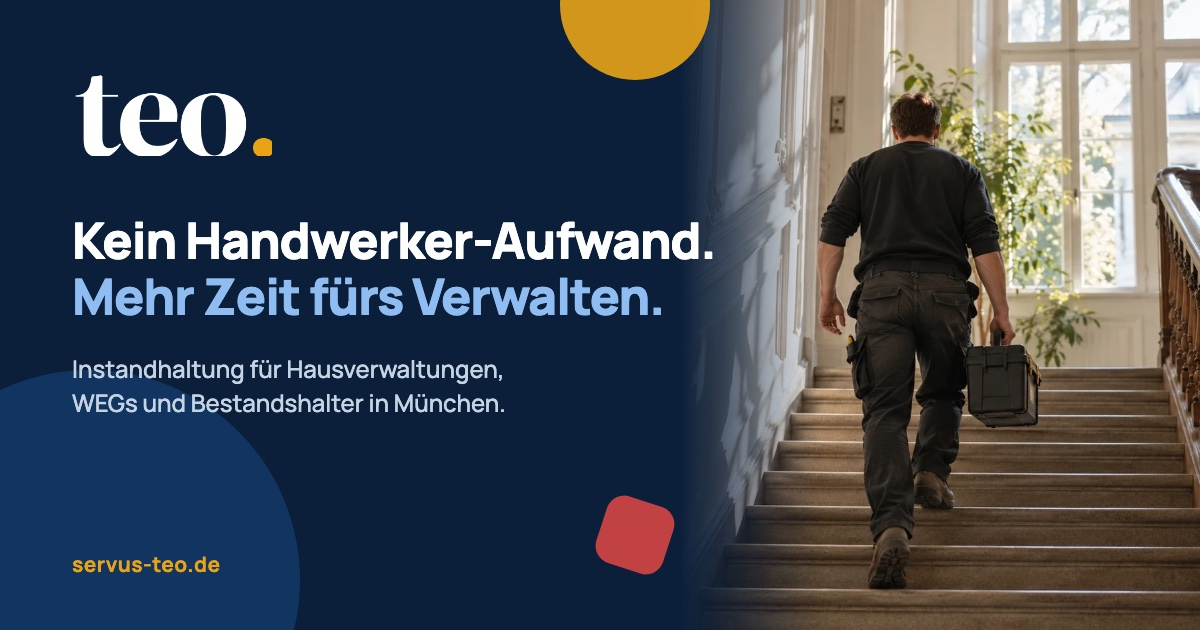
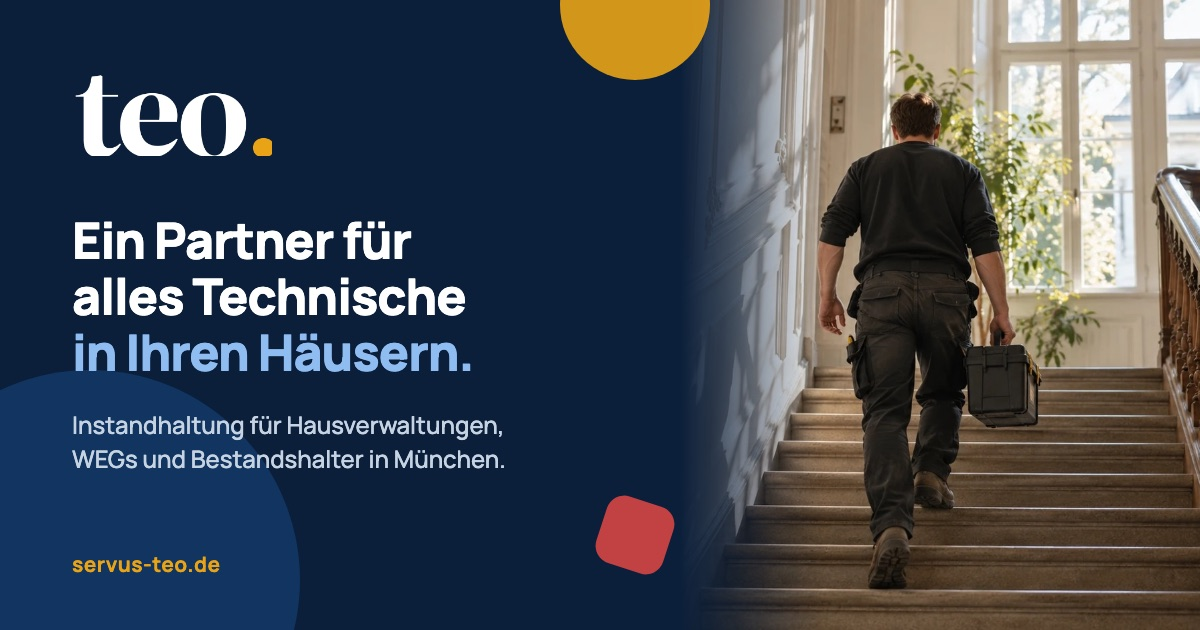
TEO-Startseite: klarere Texte im bestehenden Aufbau — Überschrift „Ein Partner für alles Technische in Ihren Häusern.“, Satz sagt was teo macht; Portal statt App, Wertgrenze legt die Verwaltung fest, Hausmeister/Putzdienst im Portal, FAQ „Was macht teo genau?“; Vorschaubild mit neuer Überschrift

Changed region(s): [[0.0617, 0.3317, 0.6167, 0.754]]

diff --git a/src/components/teo/TeoStartseite.tsx b/src/components/teo/TeoStartseite.tsx
@@ -51,21 +51,21 @@ const HEUTE = [
 const MIT_TEO = [
   "Eine Meldung genügt, wir übernehmen",
   "Handwerker und Termin organisieren wir",
-  "Den Stand sehen Sie jederzeit in der App",
+  "Den Stand sehen Sie jederzeit im Portal",
   "Abnahme mit Fotos, eine Rechnung von uns",
-  "Prüffristen laufen von selbst",
+  "Wartungen planen wir für Sie",
 ] as const;
 
 /** Kern-USPs: kurz unter dem Hero, ausführlich in „Was Sie bei teo bekommen“. */
 
 const VORTEILE = [
-  { icon: Handshake, titel: "Wir übernehmen alles", text: "Von der Meldung bis zur bezahlten Rechnung." },
+  { icon: Handshake, titel: "Von der Meldung bis zur Rechnung", text: "Sie melden, wir erledigen den Rest." },
   { icon: Headset, titel: "Ein Ansprechpartner", text: "Für jedes Haus und jedes Gewerk derselbe." },
   { icon: ReceiptText, titel: "Eine Rechnung", text: "Wir sind Ihr Vertragspartner, nicht zehn Betriebe." },
   { icon: ShieldCheck, titel: "Haftung und Gewährleistung", text: "Wir haften und kümmern uns auch um spätere Mängel." },
   { icon: ClipboardCheck, titel: "Geprüft und abgenommen", text: "Jede Arbeit abgenommen und mit Fotos belegt." },
   { icon: Network, titel: "Partnernetz in München", text: "Geprüfte Betriebe für alle Gewerke in Ihrer Nähe." },
-  { icon: SlidersHorizontal, titel: "Sie behalten die Kontrolle", text: "Unter Ihrer Wertgrenze direkt, darüber entscheiden Sie." },
+  { icon: SlidersHorizontal, titel: "Sie behalten die Kontrolle", text: "Sie legen fest, bis zu welchem Betrag wir direkt beauftragen." },
   { icon: CalendarClock, titel: "Prüffristen im Blick", text: "Wartungen beauftragen wir, bevor die Frist abläuft." },
 ] as const;
 
@@ -73,13 +73,13 @@ const VORTEILE = [
 const UEBERNEHMEN = [
   { icon: Wrench, text: "Schäden und Reparaturen" },
   { icon: CalendarClock, text: "Wartung und Prüffristen" },
-  { icon: Sparkles, text: "Laufender Betrieb" },
+  { icon: Sparkles, text: "Hausmeister und Reinigung" },
   { icon: Hammer, text: "Sanierungen und Maßnahmen" },
 ] as const;
 
 const SO_MACHEN_WIR_ES = [
-  { icon: Network, titel: "Partnerbetriebe in München", text: "Geprüft, für alle Gewerke." },
-  { icon: Smartphone, titel: "Die App", text: "Meldung, Stand, Fotos und Rechnung an einem Ort." },
+  { icon: Network, titel: "Meisterbetriebe aus München", text: "Geprüft, für alle Gewerke." },
+  { icon: Smartphone, titel: "Das Portal", text: "Meldung, Stand, Fotos und Rechnung an einem Ort." },
   { icon: Headset, titel: "Ihr teo-Team", text: "Koordiniert, prüft und haftet." },
 ] as const;
 
@@ -87,7 +87,7 @@ const DAVON_HABEN = [
   "Ein Ansprechpartner für alles",
   "Jeder Stand sichtbar",
   "Eine Rechnung von uns",
-  "Kosten im Budget",
+  "Kosten je Haus im Blick",
 ] as const;
 
 /** Kosten-Beispiel (Vorbild Lessen „Total cost to maintain“): gleiche Rechnung, anderer Aufwand. */
@@ -103,22 +103,22 @@ const MIT_TEO_KOSTEN = [
   "Kein Aufschlag auf die Rechnung",
   "Eine Rechnung, wir sind Vertragspartner",
   "Unterlagen für die Versicherung fertig",
-  "Software inklusive",
+  "Portal inklusive",
 ] as const;
 
 /** Alle Beteiligten (Vorbild Lessen „Every party connected“): Foto je Rolle, darunter teo als Klammer. */
 const BETEILIGTE = [
-  { foto: "rolle-verwaltung", quelle: "verwaltung", icon: Briefcase, titel: "Verwaltung", text: "Alle Häuser auf einer Seite. Freigeben mit einem Klick.", alt: "Verwalterin am Laptop" },
-  { foto: "rolle-mieter", quelle: null, icon: KeyRound, titel: "Mieter & Hausmeister", text: "Melden per QR-Code oder App, ganz ohne Anruf.", alt: "Mieterin meldet einen Schaden mit dem Handy" },
+  { foto: "rolle-verwaltung", quelle: "verwaltung", icon: Briefcase, titel: "Verwaltung", text: "Alle Häuser auf einer Seite. Freigeben nur, wenn es über Ihre Grenze geht.", alt: "Verwalterin am Laptop" },
+  { foto: "rolle-mieter", quelle: null, icon: KeyRound, titel: "Mieter & Hausmeister", text: "Mieter melden per QR-Code. Hausmeister und Putzdienst haken ihre Aufgaben im Portal ab.", alt: "Mieterin meldet einen Schaden mit dem Handy" },
   { foto: "rolle-handwerker", quelle: "handwerker", icon: Wrench, titel: "Handwerker", text: "Auftrag, Termin und Fotos direkt auf dem Handy.", alt: "Handwerker an der Heizung" },
   { foto: "rolle-eigentuemer", quelle: null, icon: Building, titel: "Eigentümer", text: "Sehen, was im Haus passiert, mit den Kosten je Haus.", alt: "Eigentümer vor seinem Haus" },
 ] as const;
 
 export const TEO_FAQ = [
   {
-    frage: "Für wen ist teo?",
+    frage: "Was macht teo genau?",
     antwort:
-      "Für alle, die Mehrparteienhäuser verwalten: Hausverwaltungen, Eigentümergemeinschaften und Bestandshalter wie Wohnungsunternehmen, Genossenschaften oder Eigentümer mehrerer Häuser.",
+      "Wir organisieren alles Technische an Ihren Häusern: Schäden, Wartungen, Hausmeister, Reinigung und Sanierungen. Mit geprüften Meisterbetrieben, einer Rechnung und einem Portal für alle.",
   },
   {
     frage: "Was kostet teo?",
@@ -127,11 +127,11 @@ export const TEO_FAQ = [
   {
     frage: "Ist teo eine Software?",
     antwort:
-      "Wir sind Ihr Dienstleister für alles Technische. Wir organisieren, beauftragen und prüfen. Die App ist dabei, damit Sie jederzeit den Stand sehen.",
+      "Wir sind Ihr Dienstleister für alles Technische. Wir organisieren, beauftragen und prüfen. Das Portal ist dabei, damit Sie jederzeit den Stand sehen.",
   },
   {
     frage: "Was wird aus unserem Hausmeister?",
-    antwort: "Er bleibt. Mit der App hakt er Rundgänge ab und meldet, was ihm auffällt. Den Rest organisieren wir.",
+    antwort: "Er bleibt. Im Portal sieht er seine Aufgaben, hakt Rundgänge ab und schaut sich Meldungen auf Wunsch zuerst selbst an. Was er nicht lösen kann, übernimmt ein Fachbetrieb.",
   },
   {
     frage: "Wer haftet, wenn etwas schiefgeht?",
@@ -147,7 +147,7 @@ export const TEO_FAQ = [
   },
   {
     frage: "Behalten wir die Kontrolle?",
-    antwort: "Ja. Sie legen pro Haus fest, bis zu welchem Betrag wir direkt beauftragen. Alles darüber geben Sie frei.",
+    antwort: "Ja. Sie legen pro Haus fest, bis zu welchem Betrag wir direkt beauftragen. Alles darüber geben Sie frei. Bei akuten Schäden, etwa einem Rohrbruch, legen wir sofort los.",
   },
   {
     frage: "Wo ist teo tätig?",
@@ -188,10 +188,10 @@ export function TeoStartseite() {
         <div className="teo-innen ts-hero__kopf">
           <h1>
             <span className="ts-hero__zeile">
-              Kein <span className="ts-hero__ganz">Handwerker-Aufwand.</span>
-            </span> <span className="ts-hero__zeile">Mehr Zeit fürs Verwalten.</span>
+              Ein Partner für <span className="ts-hero__ganz">alles Technische</span>
+            </span> <span className="ts-hero__zeile">in Ihren Häusern.</span>
           </h1>
-          <p className="ts-hero__satz">teo übernimmt alles, von der Meldung bis zur Ausführung durch den Handwerker.</p>
+          <p className="ts-hero__satz">teo organisiert Reparaturen, Wartungen und Hausmeisterdienste für Wohnhäuser in München. Mit geprüften Meisterbetrieben und einer Rechnung.</p>
           <div className="teo-aktionen ts-zentriert">
             <Link href={TEO_LINK_ANFRAGE} className="teo-btn">
               Anfrage stellen
@@ -273,7 +273,7 @@ export function TeoStartseite() {
       <section className="ts-abschnitt ts-abschnitt--warm" id="loesung">
         <div className="teo-innen">
           <h2 className="ts-zentriert-text ts-zweizeilig">
-            <span>Jeder Auftrag. Ein Ablauf.</span> <span className="ts-blau">Ein Ansprechpartner.</span>
+            <span>Alles Technische im Haus.</span> <span className="ts-blau">Aus einer Hand.</span>
           </h2>
           <div className="ts-fluss">
             <div className="ts-fluss__spalte">
@@ -396,7 +396,7 @@ export function TeoStartseite() {
       <section className="ts-abschnitt ts-abschnitt--warm" id="rollen">
         <div className="teo-innen">
           <h2 className="ts-zentriert-text ts-zweizeilig">
-            <span>Alle Beteiligten.</span> <span className="ts-blau">Ein Stand.</span>
+            <span>Alle sehen</span> <span className="ts-blau">denselben Stand.</span>
           </h2>
           <div className="ts-beteiligte">
             <ul className="ts-beteiligte__karten">

diff --git a/src/components/teo/TeoSchritte.tsx b/src/components/teo/TeoSchritte.tsx
@@ -18,7 +18,7 @@ const SCHRITTE: Schritt[] = [
     id: "meldung",
     reiter: "Meldung",
     titel: "Gemeldet in einer Minute.",
-    text: "Mieter, Hausmeister oder Sie melden per QR-Code, App oder Mail. Mit Foto und Wohnung.",
+    text: "Mieter, Hausmeister oder Sie melden per QR-Code im Haus, im Portal oder per Mail. Mit Foto und Wohnung.",
     karte: {
       icon: QrCode,
       titel: "Neue Meldung",
@@ -35,7 +35,7 @@ const SCHRITTE: Schritt[] = [
     id: "pruefung",
     reiter: "Prüfung",
     titel: "Geprüft, bevor jemand losfährt.",
-    text: "Wir klären, was es ist, wie dringend es ist und ob es unter Ihrer Wertgrenze liegt.",
+    text: "Wir klären, was es ist und wie dringend. Bis zu Ihrer Wertgrenze geht es direkt los, darüber fragen wir Sie.",
     karte: {
       icon: Search,
       titel: "Heizung fällt aus",

diff --git a/src/lib/config.ts b/src/lib/config.ts
@@ -19,7 +19,7 @@ export const SITE_CONFIG = {
   url: siteUrl,
   /** Social Preview — Bärenwald: grüner Hintergrund, weißes Logo-Mark; TEO: eigenes Bild unter /brand/teo/ */
   ogImagePath: istTeo ? "/brand/teo/og-image.jpg" : "/og-image.png",
-  ogImageVersion: istTeo ? "20261030" : "20260602",
+  ogImageVersion: istTeo ? "20261031" : "20260602",
   /** Öffentliche Erreichbarkeit (UI, Header, Funnel, CTAs) — Festnetz */
   phone: "08980955726",
   phoneHref: "tel:+498980955726",

diff --git a/src/app/teo-start.css b/src/app/teo-start.css
@@ -986,7 +986,7 @@
 .ts-hero h1 { max-width: 16ch; }
 .teo-site .ts-hero__satz {
   margin: 24px auto 0;
-  max-width: 34ch;
+  max-width: 44ch;
   font-size: clamp(18px, 1.8vw, 22px);
   line-height: 1.45;
   color: var(--teo-text-2);
